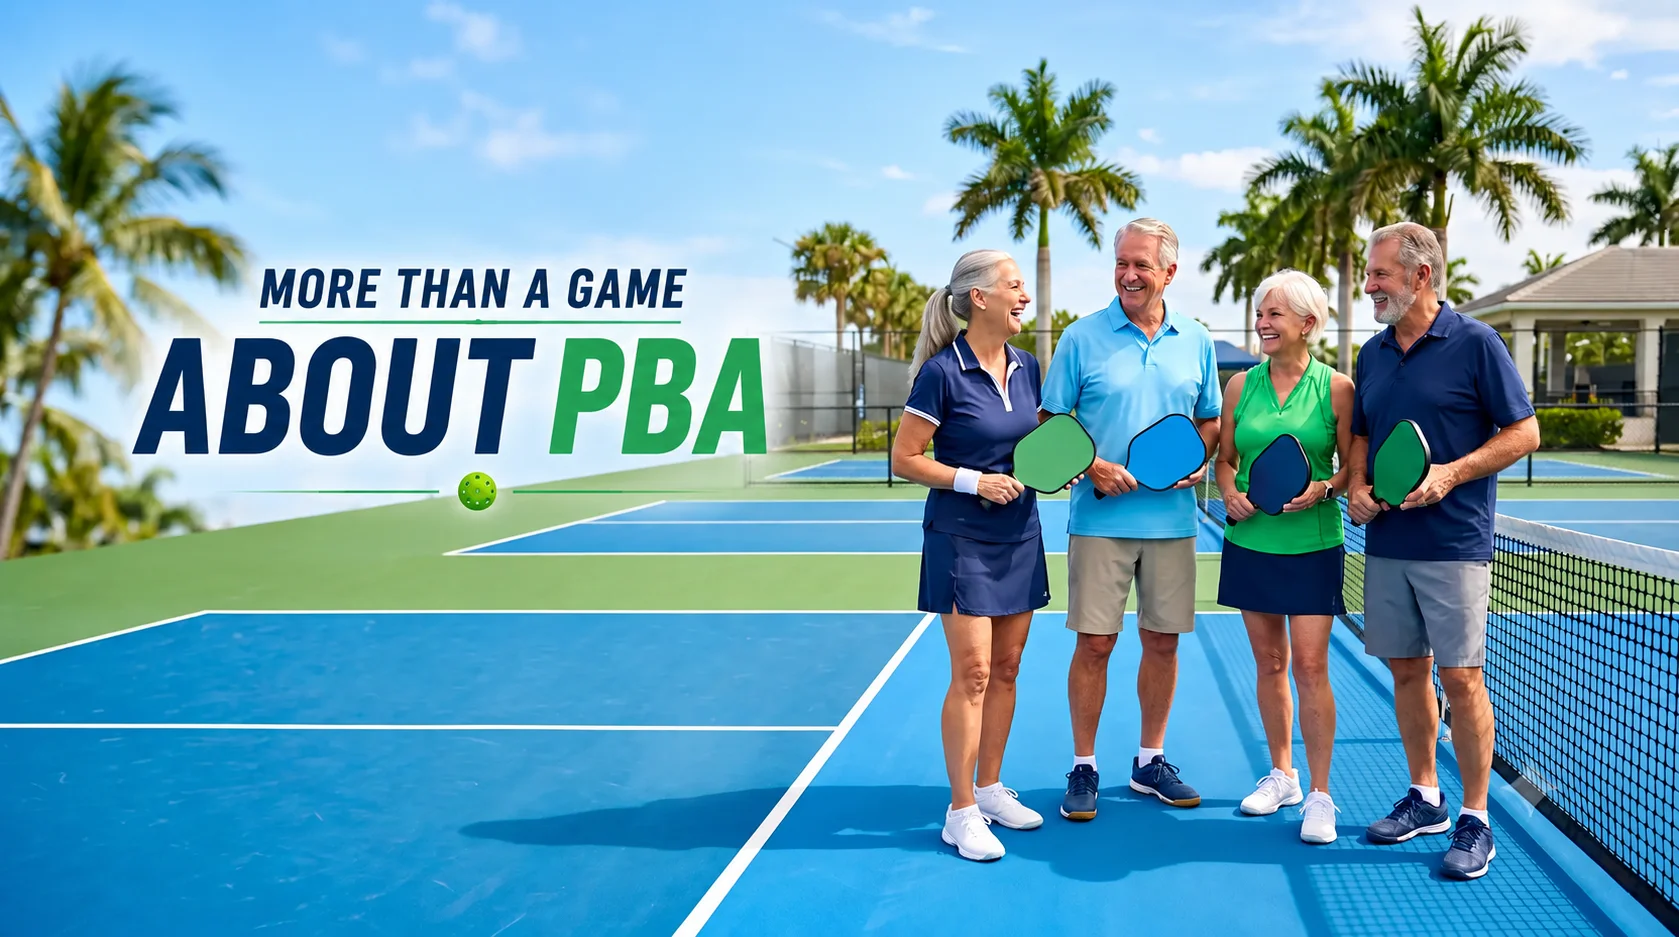
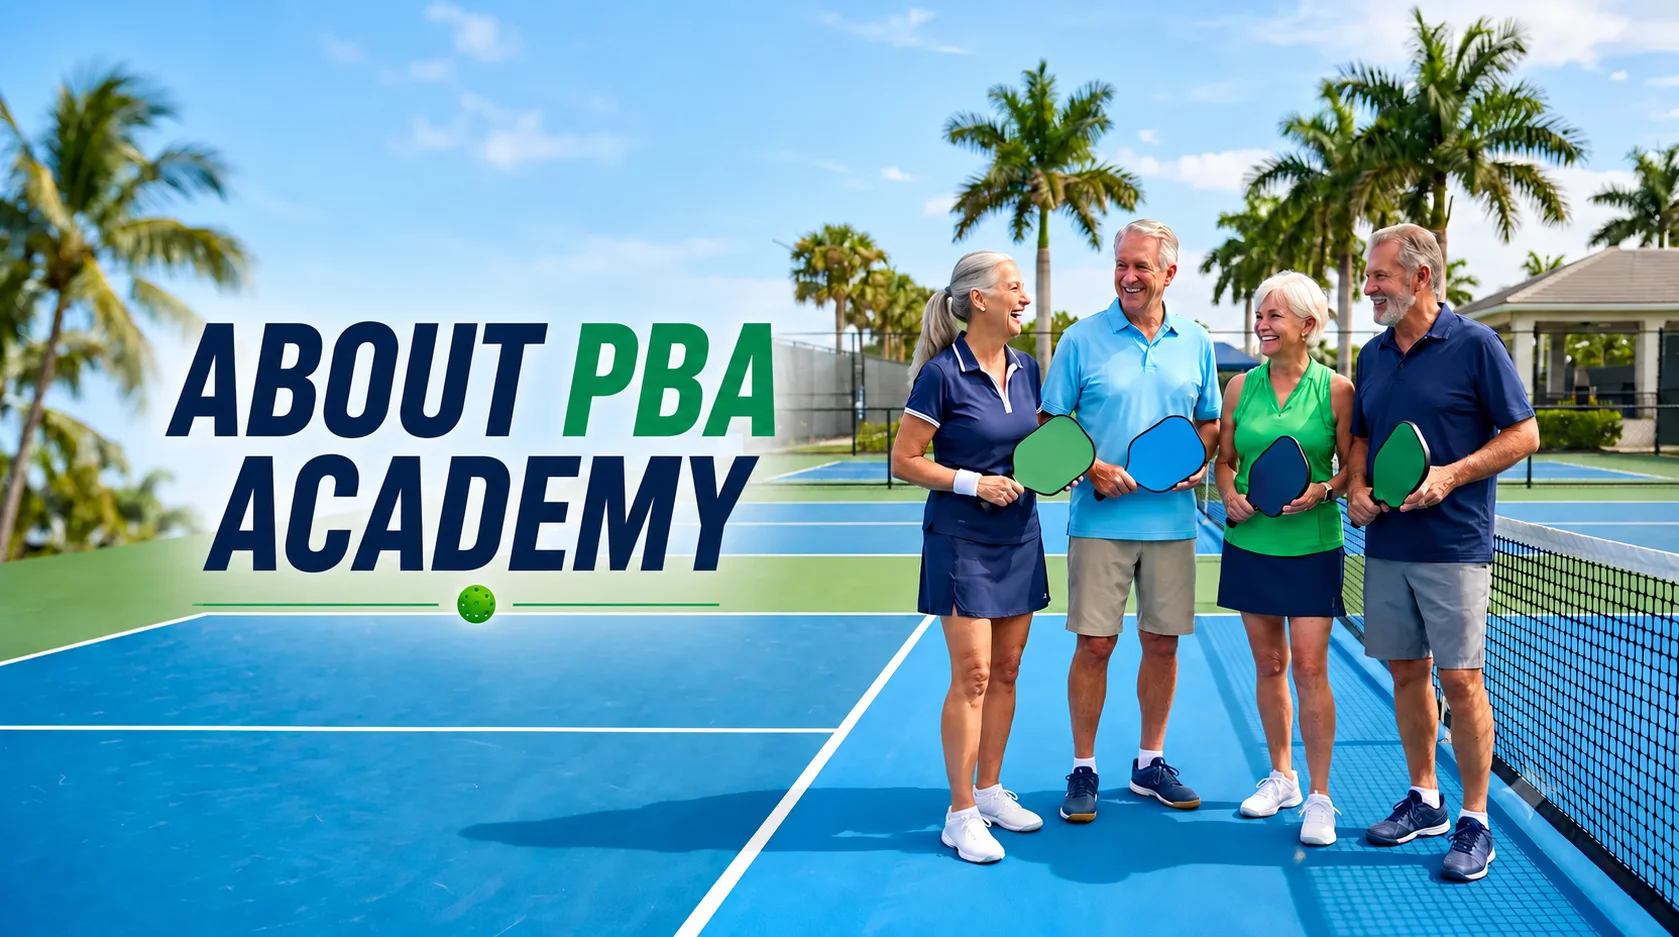
Minor Change#1

diff --git a/style.css b/style.css
@@ -7353,7 +7353,7 @@ section.active-focus {
     background-color: var(--navy);
     padding: 80px 20px;
     color: var(--white);
-    margin: 60px 0;
+    /* margin: 60px 0; */
 }
 .lp-core4-container {
     max-width: 1000px;
@@ -8182,6 +8182,10 @@ header .container.header-content {
     width: fit-content !important;
     border: 1px solid rgba(255, 255, 255, 0.1) !important;
 }
+#bm-span{
+    text-shadow: 0 2px 1px rgb(0 0 0 / 70%) !important;
+    color: black !important;
+}
 
 /* 5. Mobile Adjustments */
 @media (max-width: 768px) {
@@ -8284,4 +8288,43 @@ header .container.header-content {
     .retreat-hero-full .hero-container {
         padding-bottom: 30px !important;
     }
+}
+
+/* ============================================================
+   MOBILE SPACING FIXES (REMOVE PADDING/MARGIN)
+   ============================================================ */
+@media (max-width: 768px) {
+    /* Remove padding entirely */
+    .testimonials-section,
+    .founder-section,
+    .programs {
+        padding: 0 !important;
+    }
+
+    /* Remove vertical padding, keep 20px horizontal so text doesn't touch screen edges */
+    .about-narrative-section {
+        padding: 20px 20px !important; 
+    }
+
+    /* Remove vertical padding AND bottom margin */
+    .about-lists-section {
+        padding: 0 20px !important;
+        margin-bottom: 0 !important;
+        margin-top: 0 !important;
+    }
+    #all-instructors{
+        padding: 0 20px 20px !important;
+    }
+    #clinics ,#lessons,#leave-review,#interest-list{
+        padding: 20px 20px !important;
+    }
+    .popular-tag {
+                font-size: 0.4rem;
+        margin-top: 7px;
+    }
+    #bm-span{
+        text-shadow: 0px 1px 17px rgb(255 255 255 / 70%) !important;
+    color: black !important;
+    }
+    
 }

diff --git a/beginner-manual.css b/beginner-manual.css
@@ -355,6 +355,10 @@
 }
 
 @media (max-width: 640px) {
+    #bm-span{
+        text-shadow: 0px 1px 17px rgb(255 255 255 / 70%) !important;
+    color: black !important;
+    }
     .bm-samples-grid { grid-template-columns: repeat(2, 1fr); }
     .bm-features-wrap { grid-template-columns: 1fr; }
 }

diff --git a/lessons-programs.css b/lessons-programs.css
@@ -252,4 +252,7 @@
     .lp-hero-full .hero-container {
         padding-bottom: 20px !important;
     }
+	 #clinics , #lessons{
+        padding: 20px 20px !important;
+    }
 }

diff --git a/page-lessons-programs.php b/page-lessons-programs.php
@@ -45,9 +45,10 @@ get_header();
         <div class="c4-promo-text">
             <span class="c4-badge">FEATURED PROGRAM</span>
             <h2>
-                MASTER THE GAME WITH <span class="hl-pba">PBA</span> <span class="hl-core4">CORE 4</span> 
-                <span class="popular-tag">
-                    Most Popular
+                MASTER THE GAME WITH <span class="hl-pba">PBA</span> 
+                <span class="core4-wrapper">
+                    <span class="hl-core4">CORE 4</span>
+                    <span class="popular-tag">👑 Most Popular</span>
                 </span>
             </h2>
             <p>Our exclusive 4-lesson beginner system. From zero experience to confident player in just 4 hours.</p>
@@ -58,9 +59,55 @@ get_header();
         </div>
     </div>
 </section>
+
     <!-- ============================================================
          PHASE 2: LESSONS CATEGORY & PROGRESSION BAR
          ============================================================ -->
+             <section id="core-4" class="lp-core4-section">
+        <div class="container lp-core4-container anim-fade-up">
+            <div class="lp-core4-header">
+                <h2>PBA CORE 4</h2>
+                <h4>The Complete 4-Lesson Beginner Package</h4>
+                <p>Core 4 is PB Academy's structured beginner program designed to take someone from learning the fundamentals to actually playing the game with greater confidence.</p>
+            </div>
+            
+            <div class="lp-core4-grid">
+                <div class="core4-lesson">
+                    <span class="core4-num">1</span>
+                    <div class="core4-text">
+                        <h3>LESSON 1 — GET STARTED</h3>
+                        <p>Introduction, safety, equipment, court basics and fundamental skills.</p>
+                    </div>
+                </div>
+                <div class="core4-lesson">
+                    <span class="core4-num">2</span>
+                    <div class="core4-text">
+                        <h3>LESSON 2 — PLAY THE GAME</h3>
+                        <p>Serving, returning, scoring, side-out, ball in/out and basic rules.</p>
+                    </div>
+                </div>
+                <div class="core4-lesson">
+                    <span class="core4-num">3</span>
+                    <div class="core4-text">
+                        <h3>LESSON 3 — PLAY BETTER</h3>
+                        <p>Developing shots, movement, positioning and better control.</p>
+                    </div>
+                </div>
+                <div class="core4-lesson">
+                    <span class="core4-num">4</span>
+                    <div class="core4-text">
+                        <h3>LESSON 4 — PLAY TO WIN</h3>
+                        <p>Strategy, partner communication, point construction and supervised play.</p>
+                    </div>
+                </div>
+            </div>
+            
+            <div class="hero-buttons" style="margin-top: 40px;">
+                <a href="#" class="btn btn-outline-white">LEARN MORE</a>
+                <a href="<?php echo home_url('/book-a-lesson/'); ?>" class="btn btn-green">REGISTER NOW</a>
+            </div>
+        </div>
+    </section>
     <section id="lessons" class="container" style="padding: 80px 20px;">
         <h2 class="lp-section-title">PROGRAM CATEGORY 1 — LESSONS</h2>
         
@@ -146,51 +193,7 @@ get_header();
     <!-- ============================================================
          PHASE 3: PBA CORE 4 (PROMINENT FEATURE)
          ============================================================ -->
-    <section id="core-4" class="lp-core4-section">
-        <div class="container lp-core4-container anim-fade-up">
-            <div class="lp-core4-header">
-                <h2>PBA CORE 4</h2>
-                <h4>The Complete 4-Lesson Beginner Package</h4>
-                <p>Core 4 is PB Academy's structured beginner program designed to take someone from learning the fundamentals to actually playing the game with greater confidence.</p>
-            </div>
-            
-            <div class="lp-core4-grid">
-                <div class="core4-lesson">
-                    <span class="core4-num">1</span>
-                    <div class="core4-text">
-                        <h3>LESSON 1 — GET STARTED</h3>
-                        <p>Introduction, safety, equipment, court basics and fundamental skills.</p>
-                    </div>
-                </div>
-                <div class="core4-lesson">
-                    <span class="core4-num">2</span>
-                    <div class="core4-text">
-                        <h3>LESSON 2 — PLAY THE GAME</h3>
-                        <p>Serving, returning, scoring, side-out, ball in/out and basic rules.</p>
-                    </div>
-                </div>
-                <div class="core4-lesson">
-                    <span class="core4-num">3</span>
-                    <div class="core4-text">
-                        <h3>LESSON 3 — PLAY BETTER</h3>
-                        <p>Developing shots, movement, positioning and better control.</p>
-                    </div>
-                </div>
-                <div class="core4-lesson">
-                    <span class="core4-num">4</span>
-                    <div class="core4-text">
-                        <h3>LESSON 4 — PLAY TO WIN</h3>
-                        <p>Strategy, partner communication, point construction and supervised play.</p>
-                    </div>
-                </div>
-            </div>
-            
-            <div class="hero-buttons" style="margin-top: 40px;">
-                <a href="#" class="btn btn-outline-white">LEARN MORE</a>
-                <a href="<?php echo home_url('/book-a-lesson/'); ?>" class="btn btn-green">REGISTER NOW</a>
-            </div>
-        </div>
-    </section>
+
 
     <!-- ============================================================
          PHASE 4: CLINICS, PLAY & FINAL CTA

diff --git a/page-events.php b/page-events.php
@@ -12,7 +12,9 @@ get_header(); ?>
         <div class="hero-container">
             <div class="hero-content anim-fade-up">
                 <!-- <h2 class="hero-subtitle">Play. Socialize. Connect.</h2> -->
-                <h1 style="font-size: clamp(2.5rem, 5vw, 4.5rem); line-height: 1.1;"><span style="color: var(--navy);text-shadow: 0 2px 15px rgb(255 255 255 / 70%)!important;">PB ACADEMY</span><br><span class="highlight" style="text-shadow: 0 2px -1px rgb(255 255 255 / 70%)!important">EVENTS</span></h1>
+                <h1 style="font-size: clamp(2.5rem, 5vw, 4.5rem); line-height: 1.1;">
+                    <span style="color: var(--navy);text-shadow: 0 2px 15px rgb(255 255 255 / 70%)!important;">PB ACADEMY</span><br>
+                    <span class="highlight" style="text-shadow: 0 2px -1px rgb(255 255 255 / 70%)!important;color: black!important">EVENTS</span></h1>
                 <!-- <p style="color: rgba(255,255,255,0.95); font-size: 1.15rem; max-width: 800px; margin: 25px auto 0; line-height: 1.6; text-shadow: 0 2px 15px rgba(0,0,0,0.7);">Clinics, round robins, organized play and social gatherings — discover what's happening in the PB Academy community and reserve your spot.</p> -->
 
                 <!-- Quick-Jump Anchor Bar -->
@@ -124,7 +126,7 @@ get_header(); ?>
     </section>
 
     <!-- EVENT CALENDAR -->
-    <section class="r-section pattern-bg" id="calendar" data-mascot-msg="See everything happening this month at a glance.">
+    <!-- <section class="r-section pattern-bg" id="calendar" data-mascot-msg="See everything happening this month at a glance.">
         <div class="container">
             <h2 class="r-section-title anim-fade-up">EVENT CALENDAR</h2>
             <div class="anim-fade-up" style="max-width: 900px; margin: 0 auto; background: var(--white); border-radius: 16px; padding: 40px; box-shadow: 0 15px 40px rgba(11,32,70,0.08); text-align:center;">
@@ -137,7 +139,7 @@ get_header(); ?>
                 </ul>
             </div>
         </div>
-    </section>
+    </section> -->
 
     <!-- PAST EVENTS -->
     <!-- <section class="r-section bg-gray" id="past-events" data-mascot-msg="See the fun our community has already had together.">

diff --git a/page-beginner-manual.php b/page-beginner-manual.php
@@ -61,7 +61,9 @@ get_header();
         <div class="hero-video-bg" style="background-image: url('<?php echo get_template_directory_uri(); ?>/media/beginner-manual-hero-banner.webp');"></div>
         <div class="hero-container">
             <div class="hero-content">
-                <h1><span style="color: var(--navy);text-shadow: 0 2px 15px rgb(255 255 255 / 70%)!important;">BEGINNER</span><br><span class="highlight" style="text-shadow: 0 2px 1px rgb(0 0 0 / 70%) !important;">TRAINING MANUAL</span></h1>
+                <h1><span style="color: var(--navy);text-shadow: 0 2px 15px rgb(255 255 255 / 70%)!important;">BEGINNER</span><br>
+               <span class="highlight" id="bm-span" >TRAINING MANUAL</span>
+            </h1>
              
 
                 <!-- Quick-Jump Anchor Bar -->

diff --git a/footer.php b/footer.php
@@ -337,7 +337,7 @@
             
             // 2. Slide in & Greet after 800ms
             setTimeout(function () {
-                textEl.textContent = "Welcome to PB Academy! Let's get playing.";
+                textEl.textContent = "Hi!";
                 bubble.style.opacity = '1';
             }, 800);
 
